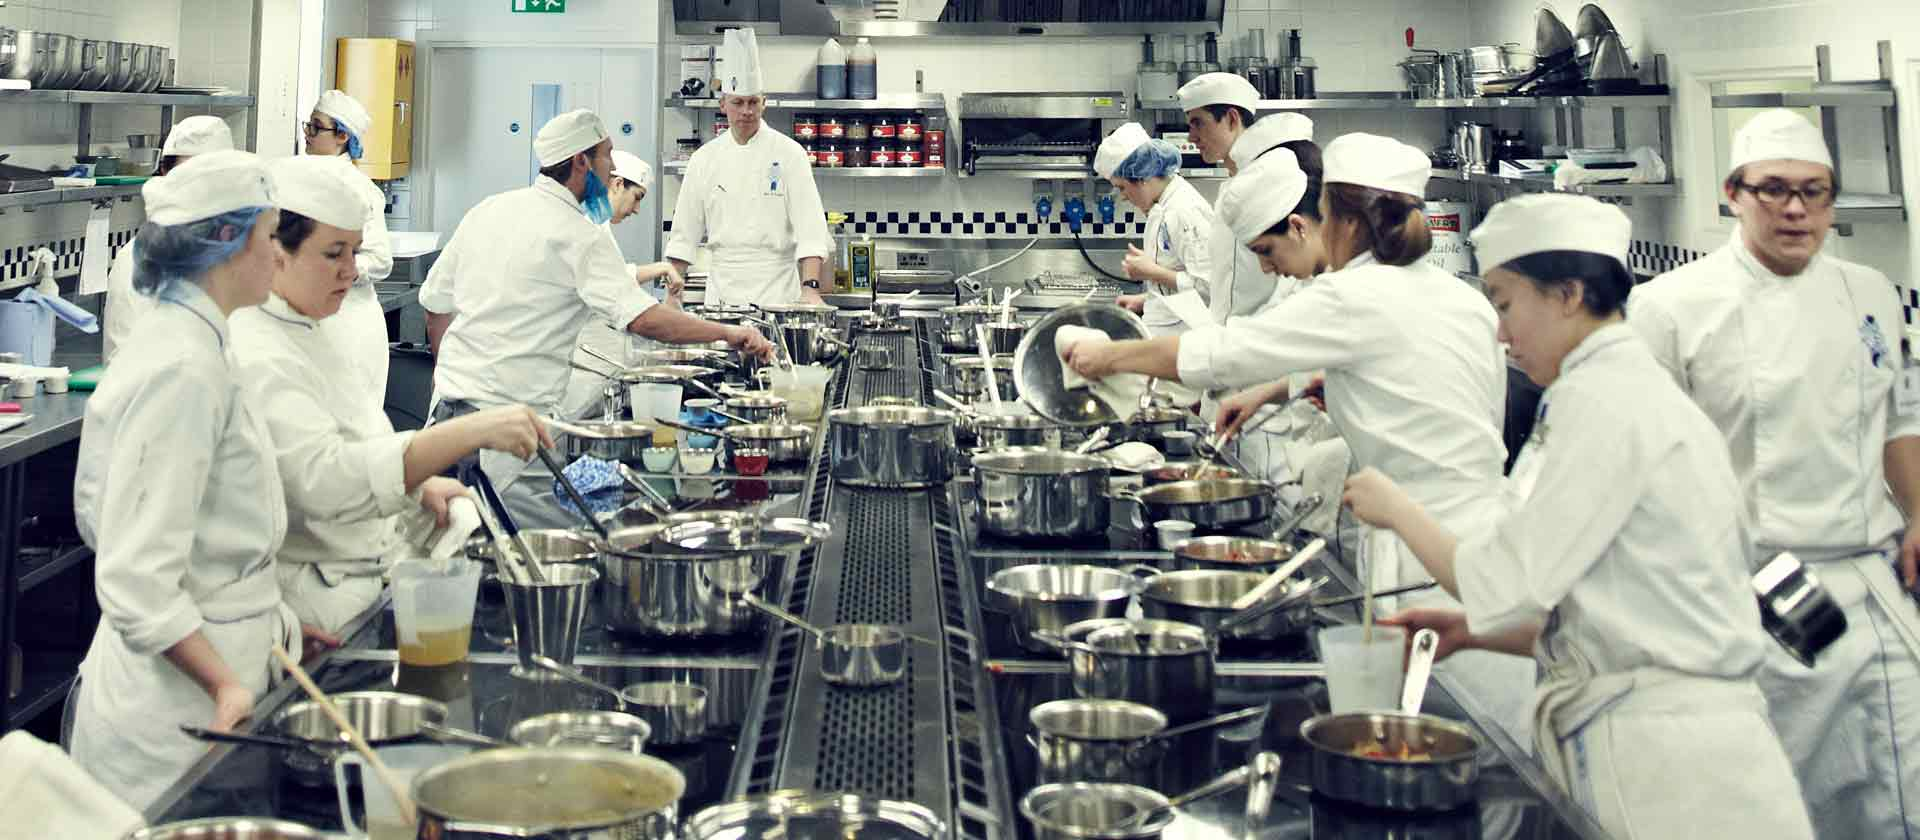
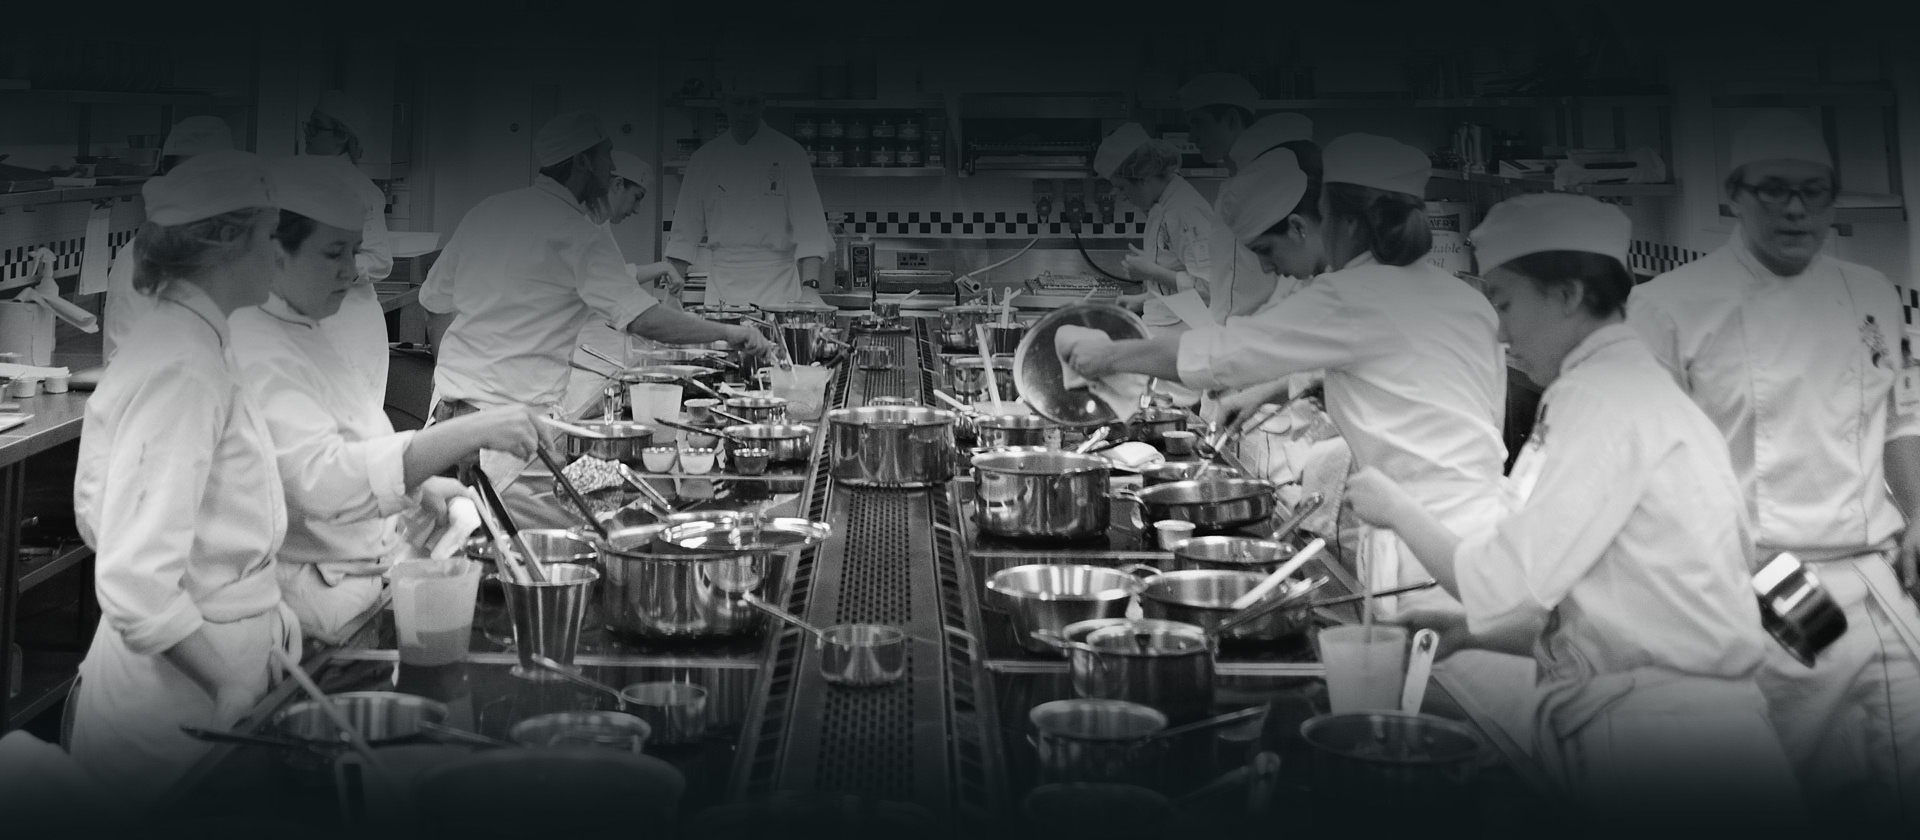
update

diff --git a/assets/css/shortcodes.css b/assets/css/shortcodes.css
@@ -3608,18 +3608,6 @@ a.mapboxgl-ctrl-logo {
     animation: to-bottom 7s infinite linear;
 }
 
-.all-chefs::before {
-    position: absolute;
-    content: '';
-    top: 0;
-    left: 0;
-    bottom: 0;
-    right: 0;
-    background-color: #0e1618;
-    opacity: 0.7;
-    z-index: 5;
-}
-
 .all-chefs img {
     width: 100%;
     opacity: 0.5;
